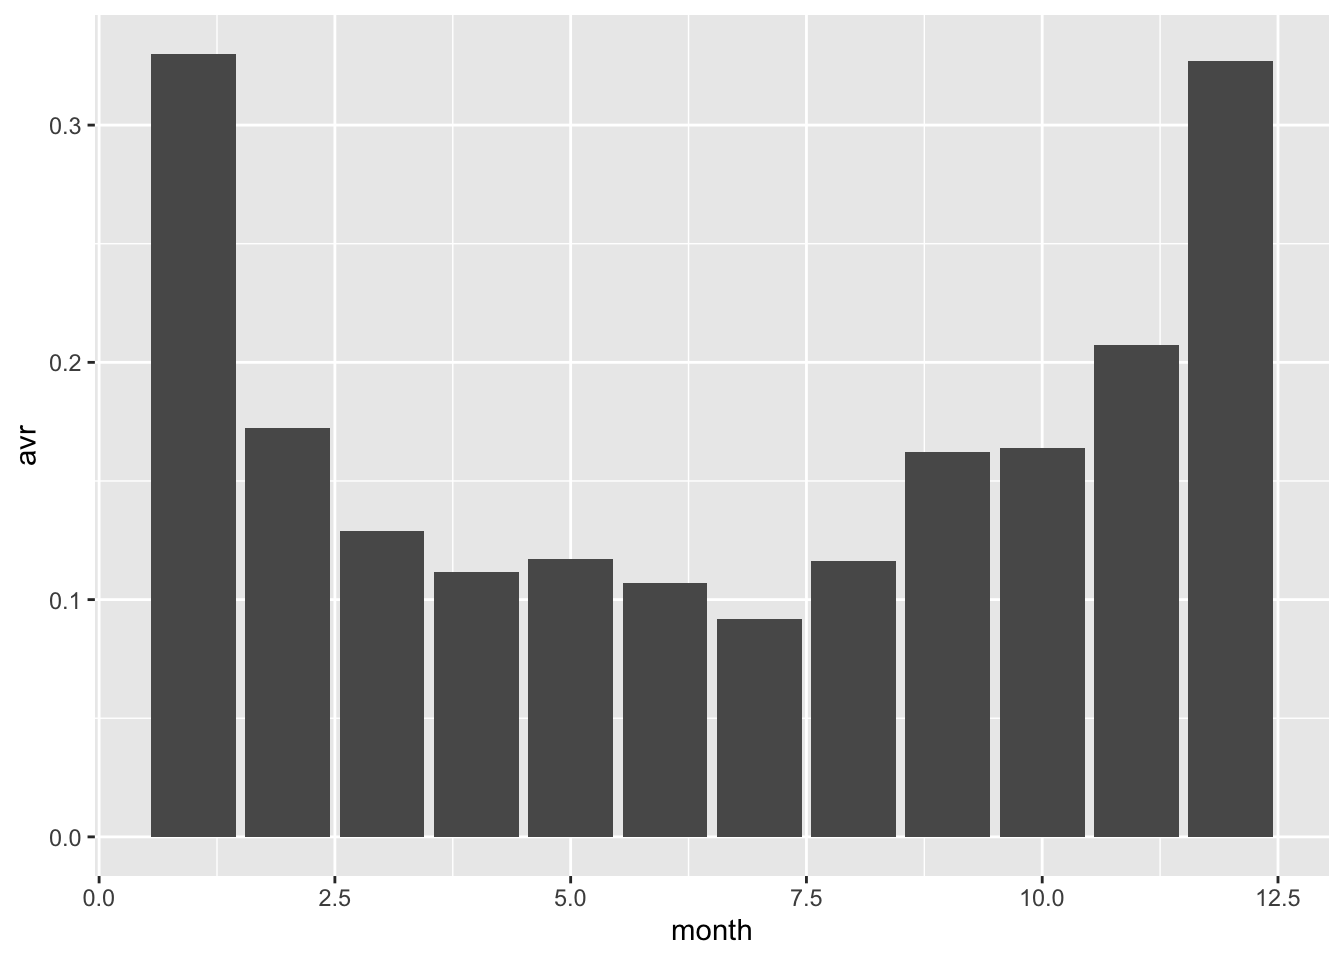
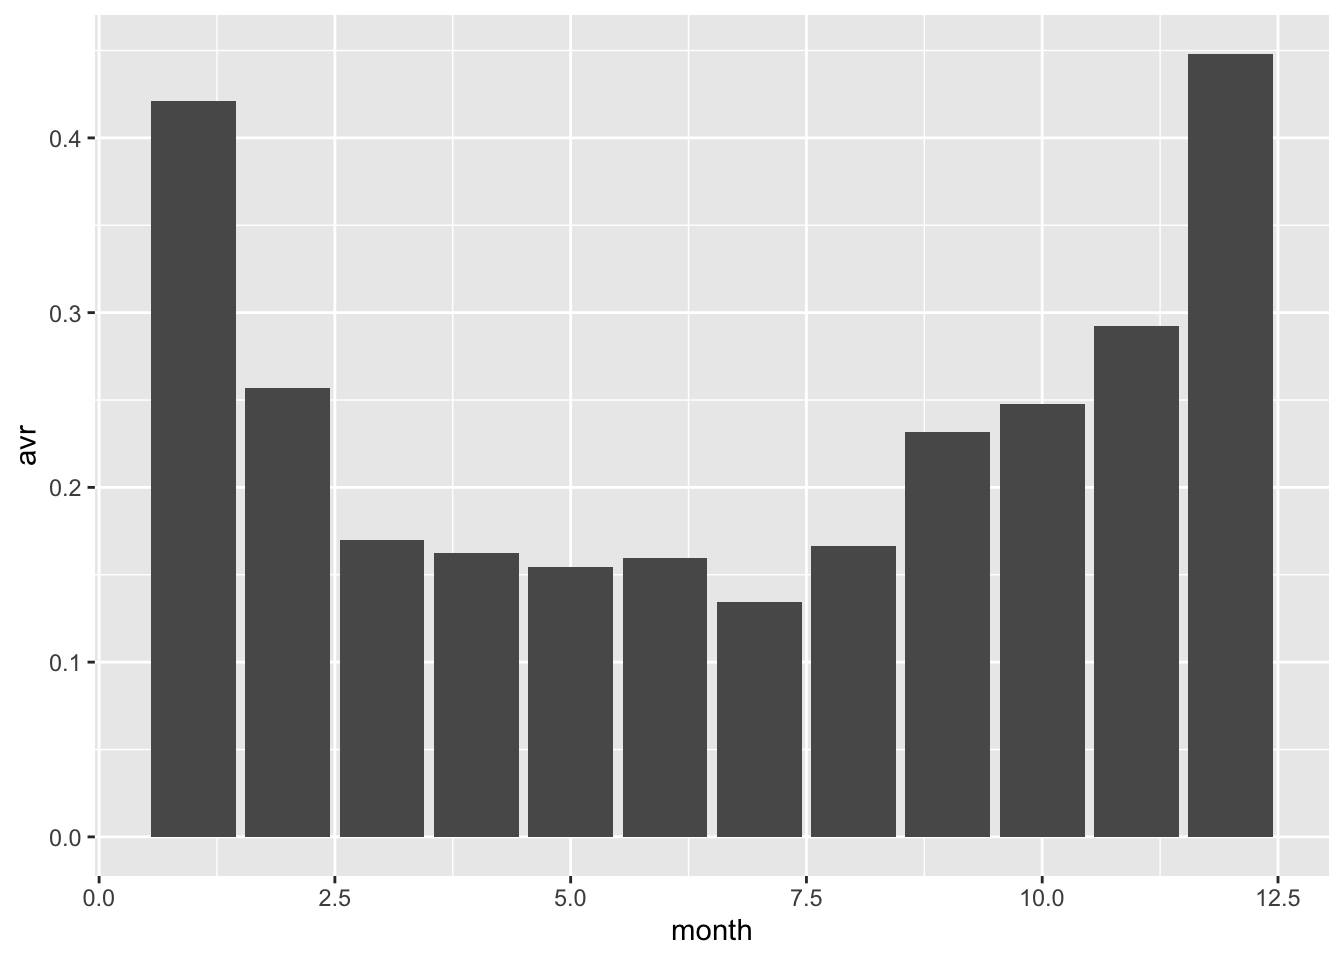
Addressing cluster minimum requirements

diff --git a/docs/surge-seasonality.html b/docs/surge-seasonality.html
@@ -426,7 +426,7 @@ This reproducible <a href="http://rmarkdown.rstudio.com">R Markdown</a> analysis
 </div>
 <div id="strongRMarkdownfilestronguncommittedchanges" class="panel-collapse collapse">
 <div class="panel-body">
-<p>The R Markdown is untracked by Git. To know which version of the R Markdown file created these results, you’ll want to first commit it to the Git repo. If you’re still working on the analysis, you can ignore this warning. When you’re finished, you can run <code>wflow_publish</code> to commit the R Markdown file and build the HTML.</p>
+<p>The R Markdown file has unstaged changes. To know which version of the R Markdown file created these results, you’ll want to first commit it to the Git repo. If you’re still working on the analysis, you can ignore this warning. When you’re finished, you can run <code>wflow_publish</code> to commit the R Markdown file and build the HTML.</p>
 </div>
 </div>
 </div>
@@ -493,10 +493,10 @@ This reproducible <a href="http://rmarkdown.rstudio.com">R Markdown</a> analysis
 <div class="panel panel-default">
 <div class="panel-heading">
 <p class="panel-title">
-<a data-toggle="collapse" data-parent="#workflowr-checks" href="#strongRepositoryversionstrongahrefhttpsgithubcomkaterobsauNWOProjecttree8bf498af1694c6524fe578b30407687591f27446targetblank8bf498aa"> <span class="glyphicon glyphicon-ok text-success" aria-hidden="true"></span> <strong>Repository version:</strong> <a href="https://github.com/katerobsau/NWO_Project/tree/8bf498af1694c6524fe578b30407687591f27446" target="_blank">8bf498a</a> </a>
+<a data-toggle="collapse" data-parent="#workflowr-checks" href="#strongRepositoryversionstrongahrefhttpsgithubcomkaterobsauNWOProjecttreec4d702f0a6b917b466f94dc9f44d4be08356ae1etargetblankc4d702fa"> <span class="glyphicon glyphicon-ok text-success" aria-hidden="true"></span> <strong>Repository version:</strong> <a href="https://github.com/katerobsau/NWO_Project/tree/c4d702f0a6b917b466f94dc9f44d4be08356ae1e" target="_blank">c4d702f</a> </a>
 </p>
 </div>
[2 lines of base64/hex data omitted]
 <div class="panel-body">
 <p>
 Great! You are using Git for version control. Tracking code development and connecting the code version to the results is critical for reproducibility. The version displayed above was the version of the Git repository at the time these results were generated. <br><br> Note that you need to be careful to ensure that all relevant files for the analysis have been committed to Git prior to generating the results (you can use <code>wflow_publish</code> or <code>wflow_git_commit</code>). workflowr only checks the R Markdown file, but you know if there are other scripts or data files that it depends on. Below is the status of the Git repository when the results were generated:
@@ -518,11 +518,9 @@ Ignored files:
     Ignored:    data/.DS_Store
     Ignored:    docs/assets/
 
-Untracked files:
-    Untracked:  analysis/surge-ensemble.Rmd
-    Untracked:  analysis/surge-seasonality.Rmd
-    Untracked:  code/source/
-    Untracked:  docs/figure/surge-seasonality.Rmd/
+Unstaged changes:
+    Modified:   analysis/surge-seasonality.Rmd
+    Modified:   analysis/surge_climatology.Rmd
 
 </code></pre>
 <p>
@@ -535,9 +533,69 @@ Note that any generated files, e.g. HTML, png, CSS, etc., are not included in t
 <hr>
 </div>
 <div id="versions" class="tab-pane fade">
+
 <p>
-There are no past versions. Publish this analysis with <code>wflow_publish()</code> to start tracking its development.
+These are the previous versions of the R Markdown and HTML files. If you’ve configured a remote Git repository (see <code>?wflow_git_remote</code>), click on the hyperlinks in the table below to view them.
 </p>
+<div class="table-responsive">
+<table class="table table-condensed table-hover">
+<thead>
+<tr>
+<th>
+File
+</th>
+<th>
+Version
+</th>
+<th>
+Author
+</th>
+<th>
+Date
+</th>
+<th>
+Message
+</th>
+</tr>
+</thead>
+<tbody>
+<tr>
+<td>
+Rmd
+</td>
+<td>
+<a href="https://github.com/katerobsau/NWO_Project/blob/b4869bcc471d1700bcf17a8202a6c540ee125fa1/analysis/surge-seasonality.Rmd" target="_blank">b4869bc</a>
+</td>
+<td>
+Kate Saunders
+</td>
+<td>
+2019-10-15
+</td>
+<td>
+Added a min cluster size and min period between clusters
+</td>
+</tr>
+<tr>
+<td>
+html
+</td>
+<td>
+<a href="https://rawcdn.githack.com/katerobsau/NWO_Project/b4869bcc471d1700bcf17a8202a6c540ee125fa1/docs/surge-seasonality.html" target="_blank">b4869bc</a>
+</td>
+<td>
+Kate Saunders
+</td>
+<td>
+2019-10-15
+</td>
+<td>
+Added a min cluster size and min period between clusters
+</td>
+</tr>
+</tbody>
+</table>
+</div>
 <hr>
 </div>
 </div>
@@ -548,13 +606,87 @@ There are no past versions. Publish this analysis with <code>wflow_publish()</co
 [1] &quot;Need to check how rle() handles missing data&quot;
 [1] &quot;Need to specify a minimum interarrival time for discharge water&quot;
 [1] &quot;Need to check how rle() handles missing data&quot;</code></pre>
-<p>NEED TO FIX THE DEFINITION OF WHAT A SURGE IS IE. I MUST DEFINE A MINIMUM PERIOD TO CLASSIFY A SURGE AND I MUST DEFINE A MINIMUM PERIOD IN BETWEEN SURGES</p>
+<p><strong>WORK IN PROGRESS</strong></p>
 <p>The number of surges per day of the year:</p>
 <pre class="r"><code>plot_num_surge_by_date</code></pre>
 <p><img src="figure/surge-seasonality.Rmd/unnamed-chunk-1-1.png" width="672" style="display: block; margin: auto;" /></p>
+<p>
+<button type="button" class="btn btn-default btn-xs btn-workflowr btn-workflowr-fig" data-toggle="collapse" data-target="#fig-unnamed-chunk-1-1">
+Past versions of unnamed-chunk-1-1.png
+</button>
+</p>
+<div id="fig-unnamed-chunk-1-1" class="collapse">
+<div class="table-responsive">
+<table class="table table-condensed table-hover">
+<thead>
+<tr>
+<th>
+Version
+</th>
+<th>
+Author
+</th>
+<th>
+Date
+</th>
+</tr>
+</thead>
+<tbody>
+<tr>
+<td>
+<a href="https://github.com/katerobsau/NWO_Project/blob/b4869bcc471d1700bcf17a8202a6c540ee125fa1/docs/figure/surge-seasonality.Rmd/unnamed-chunk-1-1.png" target="_blank">b4869bc</a>
+</td>
+<td>
+Kate Saunders
+</td>
+<td>
+2019-10-15
+</td>
+</tr>
+</tbody>
+</table>
+</div>
+</div>
 <p>The average height of surges by month:</p>
 <pre class="r"><code>plot_avr_surge_month</code></pre>
 <p><img src="figure/surge-seasonality.Rmd/unnamed-chunk-2-1.png" width="672" style="display: block; margin: auto;" /></p>
+<p>
+<button type="button" class="btn btn-default btn-xs btn-workflowr btn-workflowr-fig" data-toggle="collapse" data-target="#fig-unnamed-chunk-2-1">
+Past versions of unnamed-chunk-2-1.png
+</button>
+</p>
+<div id="fig-unnamed-chunk-2-1" class="collapse">
+<div class="table-responsive">
+<table class="table table-condensed table-hover">
+<thead>
+<tr>
+<th>
+Version
+</th>
+<th>
+Author
+</th>
+<th>
+Date
+</th>
+</tr>
+</thead>
+<tbody>
+<tr>
+<td>
+<a href="https://github.com/katerobsau/NWO_Project/blob/b4869bcc471d1700bcf17a8202a6c540ee125fa1/docs/figure/surge-seasonality.Rmd/unnamed-chunk-2-1.png" target="_blank">b4869bc</a>
+</td>
+<td>
+Kate Saunders
+</td>
+<td>
+2019-10-15
+</td>
+</tr>
+</tbody>
+</table>
+</div>
+</div>
 <br>
 <p>
 <button type="button" class="btn btn-default btn-workflowr btn-workflowr-sessioninfo" data-toggle="collapse" data-target="#workflowr-sessioninfo" style="display: block;">
@@ -594,9 +726,10 @@ loaded via a namespace (and not attached):
 [29] generics_0.0.2   fs_1.3.1         vctrs_0.2.0      rprojroot_1.3-2 
 [33] grid_3.5.2       tidyselect_0.2.5 glue_1.3.1       R6_2.4.0        
 [37] readxl_1.3.1     rmarkdown_1.16   modelr_0.1.5     magrittr_1.5    
-[41] backports_1.1.5  scales_1.0.0     htmltools_0.4.0  rvest_0.3.4     
-[45] assertthat_0.2.1 colorspace_1.4-1 labeling_0.3     stringi_1.4.3   
-[49] lazyeval_0.2.2   munsell_0.5.0    broom_0.5.2      crayon_1.3.4    </code></pre>
+[41] whisker_0.4      backports_1.1.5  scales_1.0.0     htmltools_0.4.0 
+[45] rvest_0.3.4      assertthat_0.2.1 colorspace_1.4-1 labeling_0.3    
+[49] stringi_1.4.3    lazyeval_0.2.2   munsell_0.5.0    broom_0.5.2     
+[53] crayon_1.3.4    </code></pre>
 </div>
 
 

diff --git a/docs/surge_climatology.html b/docs/surge_climatology.html
@@ -384,7 +384,7 @@ div.section {
 
 <p>
 <button type="button" class="btn btn-default btn-workflowr btn-workflowr-report" data-toggle="collapse" data-target="#workflowr-report">
-<span class="glyphicon glyphicon-list" aria-hidden="true"></span> workflowr <span class="glyphicon glyphicon-ok text-success" aria-hidden="true"></span>
+<span class="glyphicon glyphicon-list" aria-hidden="true"></span> workflowr <span class="glyphicon glyphicon-exclamation-sign text-danger" aria-hidden="true"></span>
 </button>
 </p>
 <div id="workflowr-report" class="collapse">
@@ -393,7 +393,7 @@ div.section {
 <a data-toggle="tab" href="#summary">Summary</a>
 </li>
 <li>
-<a data-toggle="tab" href="#checks"> Checks <span class="glyphicon glyphicon-ok text-success" aria-hidden="true"></span> </a>
+<a data-toggle="tab" href="#checks"> Checks <span class="glyphicon glyphicon-exclamation-sign text-danger" aria-hidden="true"></span> </a>
 </li>
 <li>
 <a data-toggle="tab" href="#versions">Past versions</a>
@@ -405,7 +405,7 @@ div.section {
 <strong>Last updated:</strong> 2019-10-15
 </p>
 <p>
-<strong>Checks:</strong> <span class="glyphicon glyphicon-ok text-success" aria-hidden="true"></span> 7 <span class="glyphicon glyphicon-exclamation-sign text-danger" aria-hidden="true"></span> 0
+<strong>Checks:</strong> <span class="glyphicon glyphicon-ok text-success" aria-hidden="true"></span> 6 <span class="glyphicon glyphicon-exclamation-sign text-danger" aria-hidden="true"></span> 1
 </p>
 <p>
 <strong>Knit directory:</strong> <code>NWO_Project/</code> <span class="glyphicon glyphicon-question-sign" aria-hidden="true" title="This is the local directory in which the code in this file was executed."> </span>
@@ -421,12 +421,12 @@ This reproducible <a href="http://rmarkdown.rstudio.com">R Markdown</a> analysis
 <div class="panel panel-default">
 <div class="panel-heading">
 <p class="panel-title">
-<a data-toggle="collapse" data-parent="#workflowr-checks" href="#strongRMarkdownfilestronguptodate"> <span class="glyphicon glyphicon-ok text-success" aria-hidden="true"></span> <strong>R Markdown file:</strong> up-to-date </a>
+<a data-toggle="collapse" data-parent="#workflowr-checks" href="#strongRMarkdownfilestronguncommittedchanges"> <span class="glyphicon glyphicon-exclamation-sign text-danger" aria-hidden="true"></span> <strong>R Markdown file:</strong> uncommitted changes </a>
 </p>
 </div>
-<div id="strongRMarkdownfilestronguptodate" class="panel-collapse collapse">
+<div id="strongRMarkdownfilestronguncommittedchanges" class="panel-collapse collapse">
 <div class="panel-body">
-<p>Great! Since the R Markdown file has been committed to the Git repository, you know the exact version of the code that produced these results.</p>
+<p>The R Markdown file has unstaged changes. To know which version of the R Markdown file created these results, you’ll want to first commit it to the Git repo. If you’re still working on the analysis, you can ignore this warning. When you’re finished, you can run <code>wflow_publish</code> to commit the R Markdown file and build the HTML.</p>
 </div>
 </div>
 </div>
@@ -493,10 +493,10 @@ This reproducible <a href="http://rmarkdown.rstudio.com">R Markdown</a> analysis
 <div class="panel panel-default">
 <div class="panel-heading">
 <p class="panel-title">
-<a data-toggle="collapse" data-parent="#workflowr-checks" href="#strongRepositoryversionstrongahrefhttpsgithubcomkaterobsauNWOProjecttree8794d5e00198dbde3828322b6448564bd48a001atargetblank8794d5ea"> <span class="glyphicon glyphicon-ok text-success" aria-hidden="true"></span> <strong>Repository version:</strong> <a href="https://github.com/katerobsau/NWO_Project/tree/8794d5e00198dbde3828322b6448564bd48a001a" target="_blank">8794d5e</a> </a>
+<a data-toggle="collapse" data-parent="#workflowr-checks" href="#strongRepositoryversionstrongahrefhttpsgithubcomkaterobsauNWOProjecttreec4d702f0a6b917b466f94dc9f44d4be08356ae1etargetblankc4d702fa"> <span class="glyphicon glyphicon-ok text-success" aria-hidden="true"></span> <strong>Repository version:</strong> <a href="https://github.com/katerobsau/NWO_Project/tree/c4d702f0a6b917b466f94dc9f44d4be08356ae1e" target="_blank">c4d702f</a> </a>
 </p>
 </div>
[2 lines of base64/hex data omitted]
 <div class="panel-body">
 <p>
 Great! You are using Git for version control. Tracking code development and connecting the code version to the results is critical for reproducibility. The version displayed above was the version of the Git repository at the time these results were generated. <br><br> Note that you need to be careful to ensure that all relevant files for the analysis have been committed to Git prior to generating the results (you can use <code>wflow_publish</code> or <code>wflow_git_commit</code>). workflowr only checks the R Markdown file, but you know if there are other scripts or data files that it depends on. Below is the status of the Git repository when the results were generated:
@@ -517,6 +517,9 @@ Ignored files:
     Ignored:    code/tidalHelpers/man/
     Ignored:    data/.DS_Store
     Ignored:    docs/assets/
+
+Unstaged changes:
+    Modified:   analysis/surge_climatology.Rmd
 
 </code></pre>
 <p>
@@ -555,6 +558,23 @@ Message
 </tr>
 </thead>
 <tbody>
+<tr>
+<td>
+html
+</td>
+<td>
+<a href="https://rawcdn.githack.com/katerobsau/NWO_Project/c4d702f0a6b917b466f94dc9f44d4be08356ae1e/docs/surge_climatology.html" target="_blank">c4d702f</a>
+</td>
+<td>
+katerobsau
+</td>
+<td>
+2019-10-15
+</td>
+<td>
+Addressing cluster minimum requirements
+</td>
+</tr>
 <tr>
 <td>
 Rmd
@@ -1596,6 +1616,20 @@ katerobsau
 <!-- ``` -->
 <!-- ## To Do: -->
 <!-- Ideally also like to wrap plotting code, and to fix dates on axes. -->
+</div>
+<div id="navigation-links" class="section level2">
+<h2>Navigation Links</h2>
+<ul>
+<li><a href="index.html">Project Overview</a><br />
+</li>
+<li><a href="details-on-tidal-summaries.html">Sea Level Metadata and Preprocessing</a><br />
+</li>
+<li><a href="details-on-rainfall-data.html">Rainfall Metadata and Preprocessing</a><br />
+</li>
+<li><a href="surge_climatology.html">Surge Climatology</a><br />
+</li>
+<li><a href="surge-seasonality.html">Surge Seasonality</a></li>
+</ul>
 <br>
 <p>
 <button type="button" class="btn btn-default btn-workflowr btn-workflowr-sessioninfo" data-toggle="collapse" data-target="#workflowr-sessioninfo" style="display: block;">
